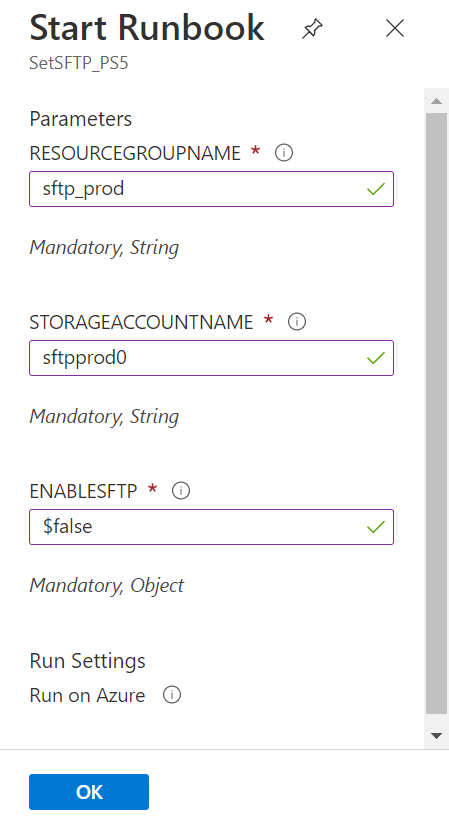
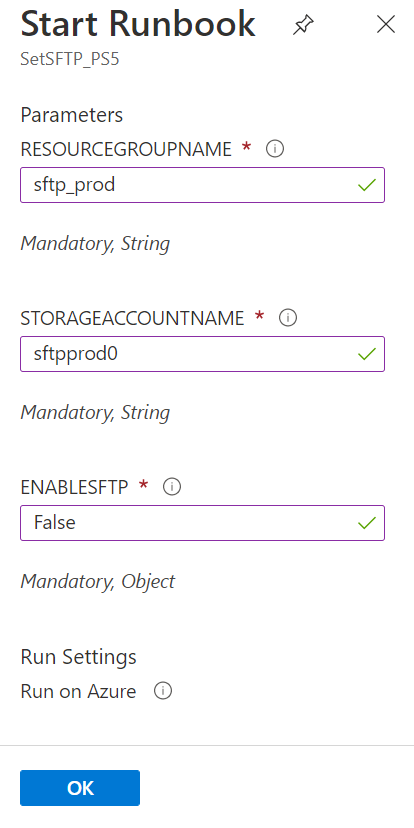
Update from Forestry.io Luke Murray created uploads/azautomation_runbook_runparameters.png Luke Murray updated _drafts/disable-sftp-support-on-an-azure-storage-account-on-a-schedule.md

diff --git a/_drafts/disable-sftp-support-on-an-azure-storage-account-on-a-schedule.md b/_drafts/disable-sftp-support-on-an-azure-storage-account-on-a-schedule.md
@@ -106,7 +106,7 @@ Now that the AzAccounts, Az.Storage modules have been updated, and the Azure Aut
                 [string]
                 $storageAccountName,
             
-                [Parameter(Mandatory = $true, HelpMessage = '$True = Enable SFTP & $False = Disable SFTP')][ValidateSet('$false','$true')]
+                [Parameter(Mandatory = $true, HelpMessage = '$True = Enable SFTP & $False = Disable SFTP')][ValidateSet('False','True')]
                 $enableSftp
             )
           
@@ -115,8 +115,7 @@ Now that the AzAccounts, Az.Storage modules have been updated, and the Azure Aut
             Disables or enables SFTP support on an Azure Storage Account.
             .DESCRIPTION
             Disables or enables SFTP support on an Azure Storage Account. The intention is for this script to be used in Azure Automation, alongside a Schedule to enable or disable SFTP support on an Azure Storage Account.
-        	.AUTHOR
-             Luke Murray (https://luke.geek.nz)
+        
             .EXAMPLE
             Set-AzStgSFTP -resourceGroupName sftp_prod -storageAccountName sftpprod0 -EnableSFTP $true
           #>
@@ -134,21 +133,24 @@ Now that the AzAccounts, Az.Storage modules have been updated, and the Azure Aut
         Write-Output -InputObject $resourceGroupName 
         Write-Output -InputObject $storageAccountName
         Write-Output -InputObject $EnableSFTP
-        $SetSFTP = [boolean]$enableSftp
         # set and store context
         $AzureContext = Set-AzContext -SubscriptionName $AzureContext.Subscription -DefaultProfile $AzureContext
-          
-            $SFTPStatus = Get-AzStorageAccount -DefaultProfile $AzureContext -ResourceGroupName $resourceGroupName -Name $storageAccountName | Select-Object -ExpandProperty EnableSftp
         
-            $Status = $SFTPStatus -replace 'True', 'Enabled' -replace 'False', 'Disabled'
+          
+          $SetSFTP = [System.Convert]::ToBoolean($enableSftp)
+        
+            $SFTPStatusBefore = Get-AzStorageAccount -DefaultProfile $AzureContext -ResourceGroupName $resourceGroupName -Name $storageAccountName | Select-Object -ExpandProperty EnableSftp
+        
+            $Status = $SFTPStatusBefore -replace 'True', 'Enabled' -replace 'False', 'Disabled'
         
             Write-Output -InputObject ('SFTP for {0} currently has SFTP set to: {1} before update.' -f $storageAccountName, $Status)
           
-            Set-AzStorageAccount -DefaultProfile $AzureContext -ResourceGroupName $resourceGroupName -Name $storageAccountName -EnableSftp $SetSFTP
+            Set-AzStorageAccount -DefaultProfile $AzureContext -ResourceGroupName $resourceGroupName -Name $storageAccountName -EnableSftp $SetSFTP 
+           
         
-            $SFTPStatus = Get-AzStorageAccount -DefaultProfile $AzureContext -ResourceGroupName $resourceGroupName -Name $storageAccountName | Select-Object -ExpandProperty EnableSftp
+            $SFTPStatusAfter = Get-AzStorageAccount -DefaultProfile $AzureContext -ResourceGroupName $resourceGroupName -Name $storageAccountName | Select-Object -ExpandProperty EnableSftp
         
-            $Status = $SFTPStatus -replace 'True', 'Enabled' -replace 'False', 'Disabled'
+            $Status = $SFTPStatusAfter -replace 'True', 'Enabled' -replace 'False', 'Disabled'
         
             Write-Output -InputObject ('SFTP for {0} currently has SFTP set to: {1} after update.' -f $storageAccountName, $Status)
 11. Click **Save**
@@ -168,5 +170,5 @@ The Runbook uses the following parameters:
 
 1. Find your Runbook, and select **Start**
 2. Enter in your parameters, **Resource Group**, **Storage Account** and **Enable SFTP.**
-3. ![Start Azure PowerShell runbook](/uploads/azautomation_runbook_runparameters.png "Start Azure PowerShell runbook")
+3. ![](/uploads/azautomation_runbook_runparameters.png)
 4. Click **Ok**
